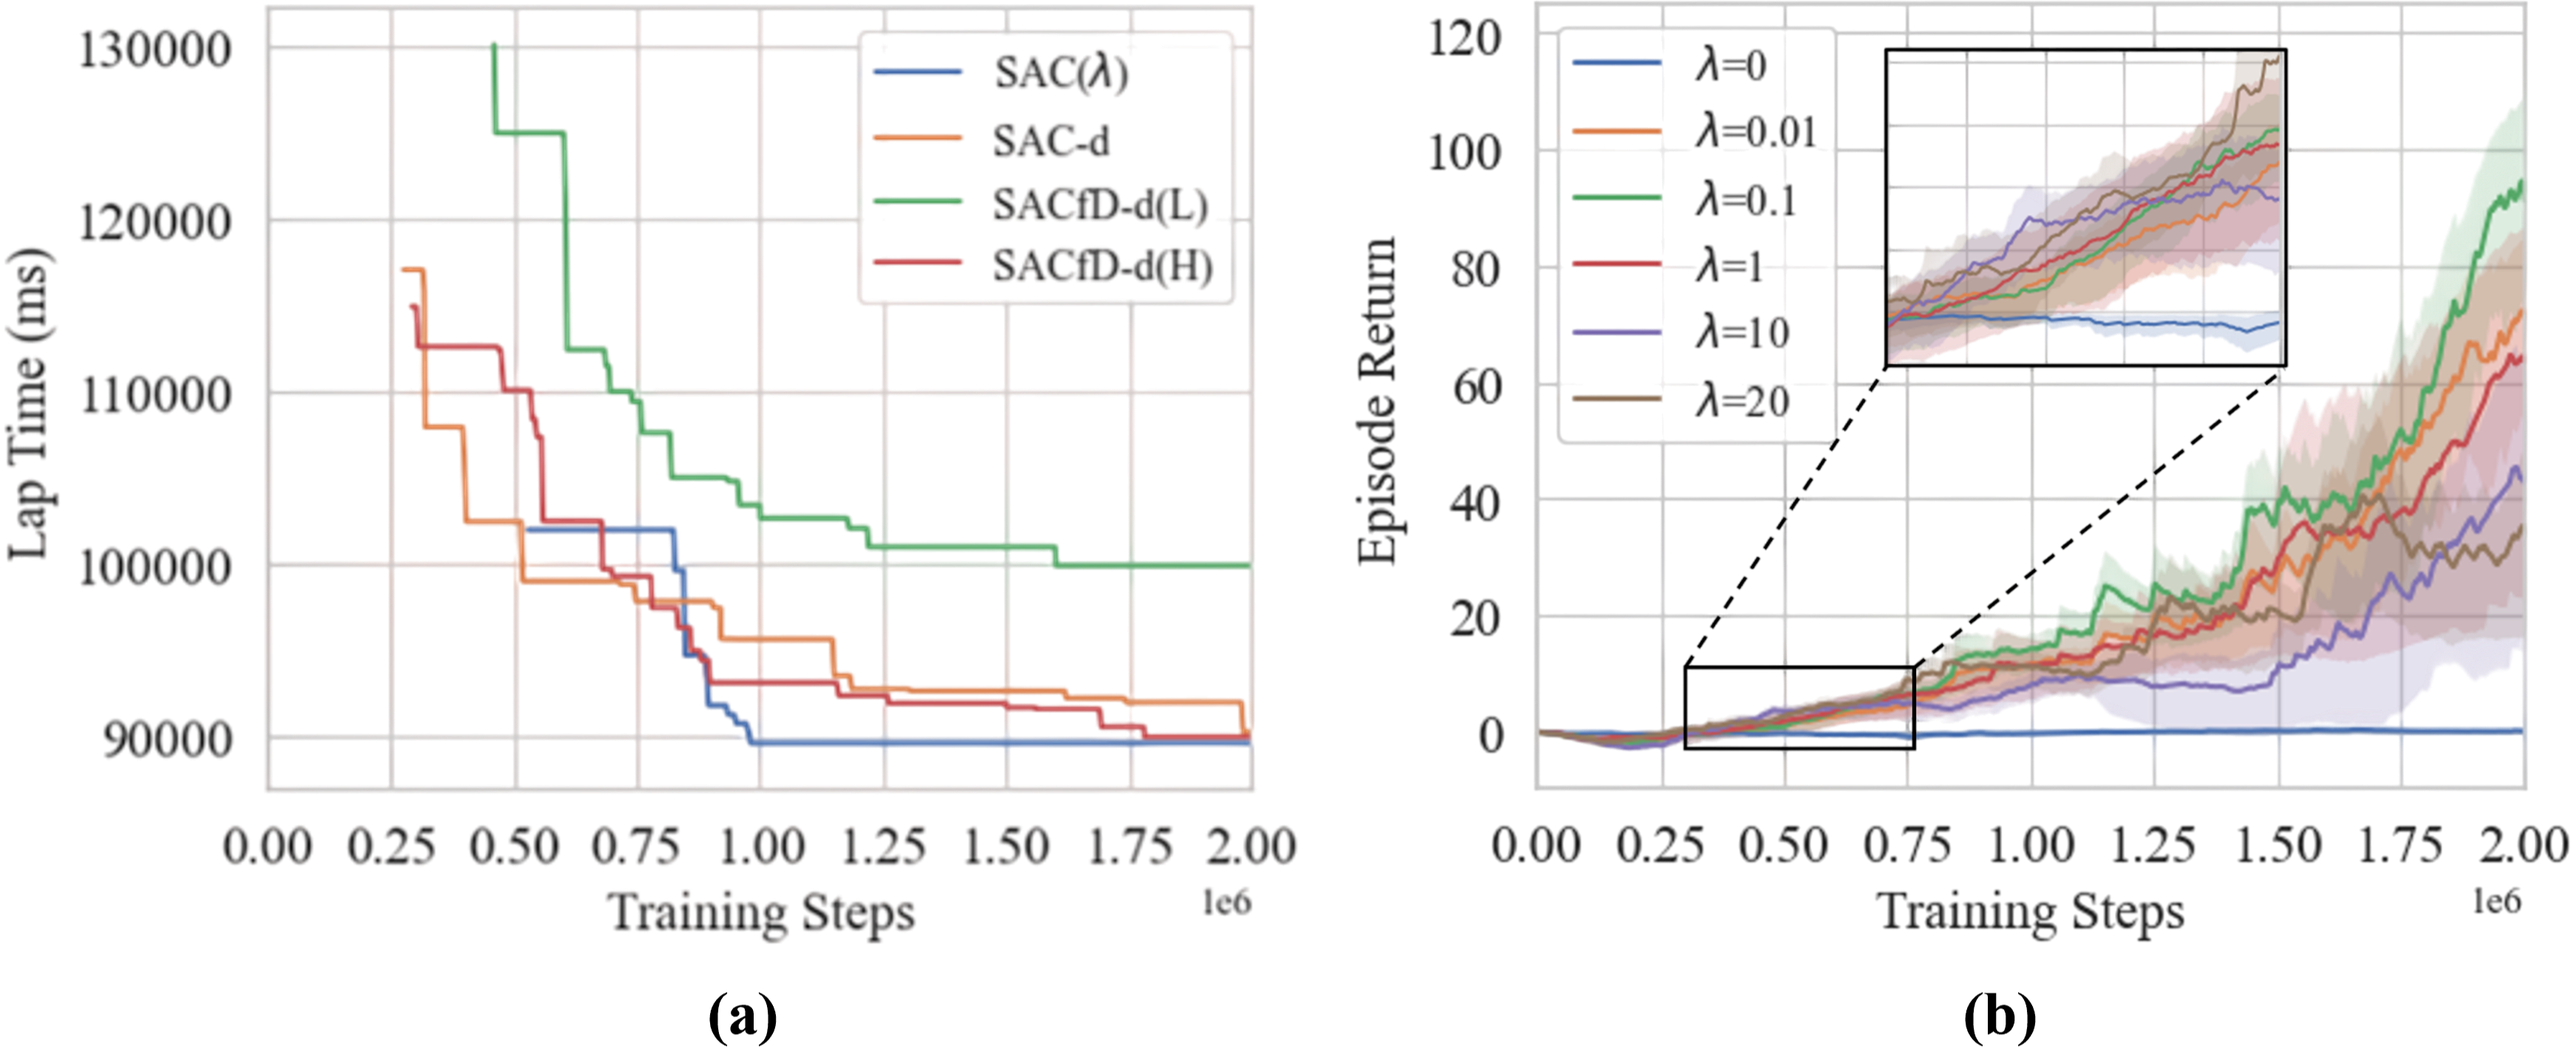
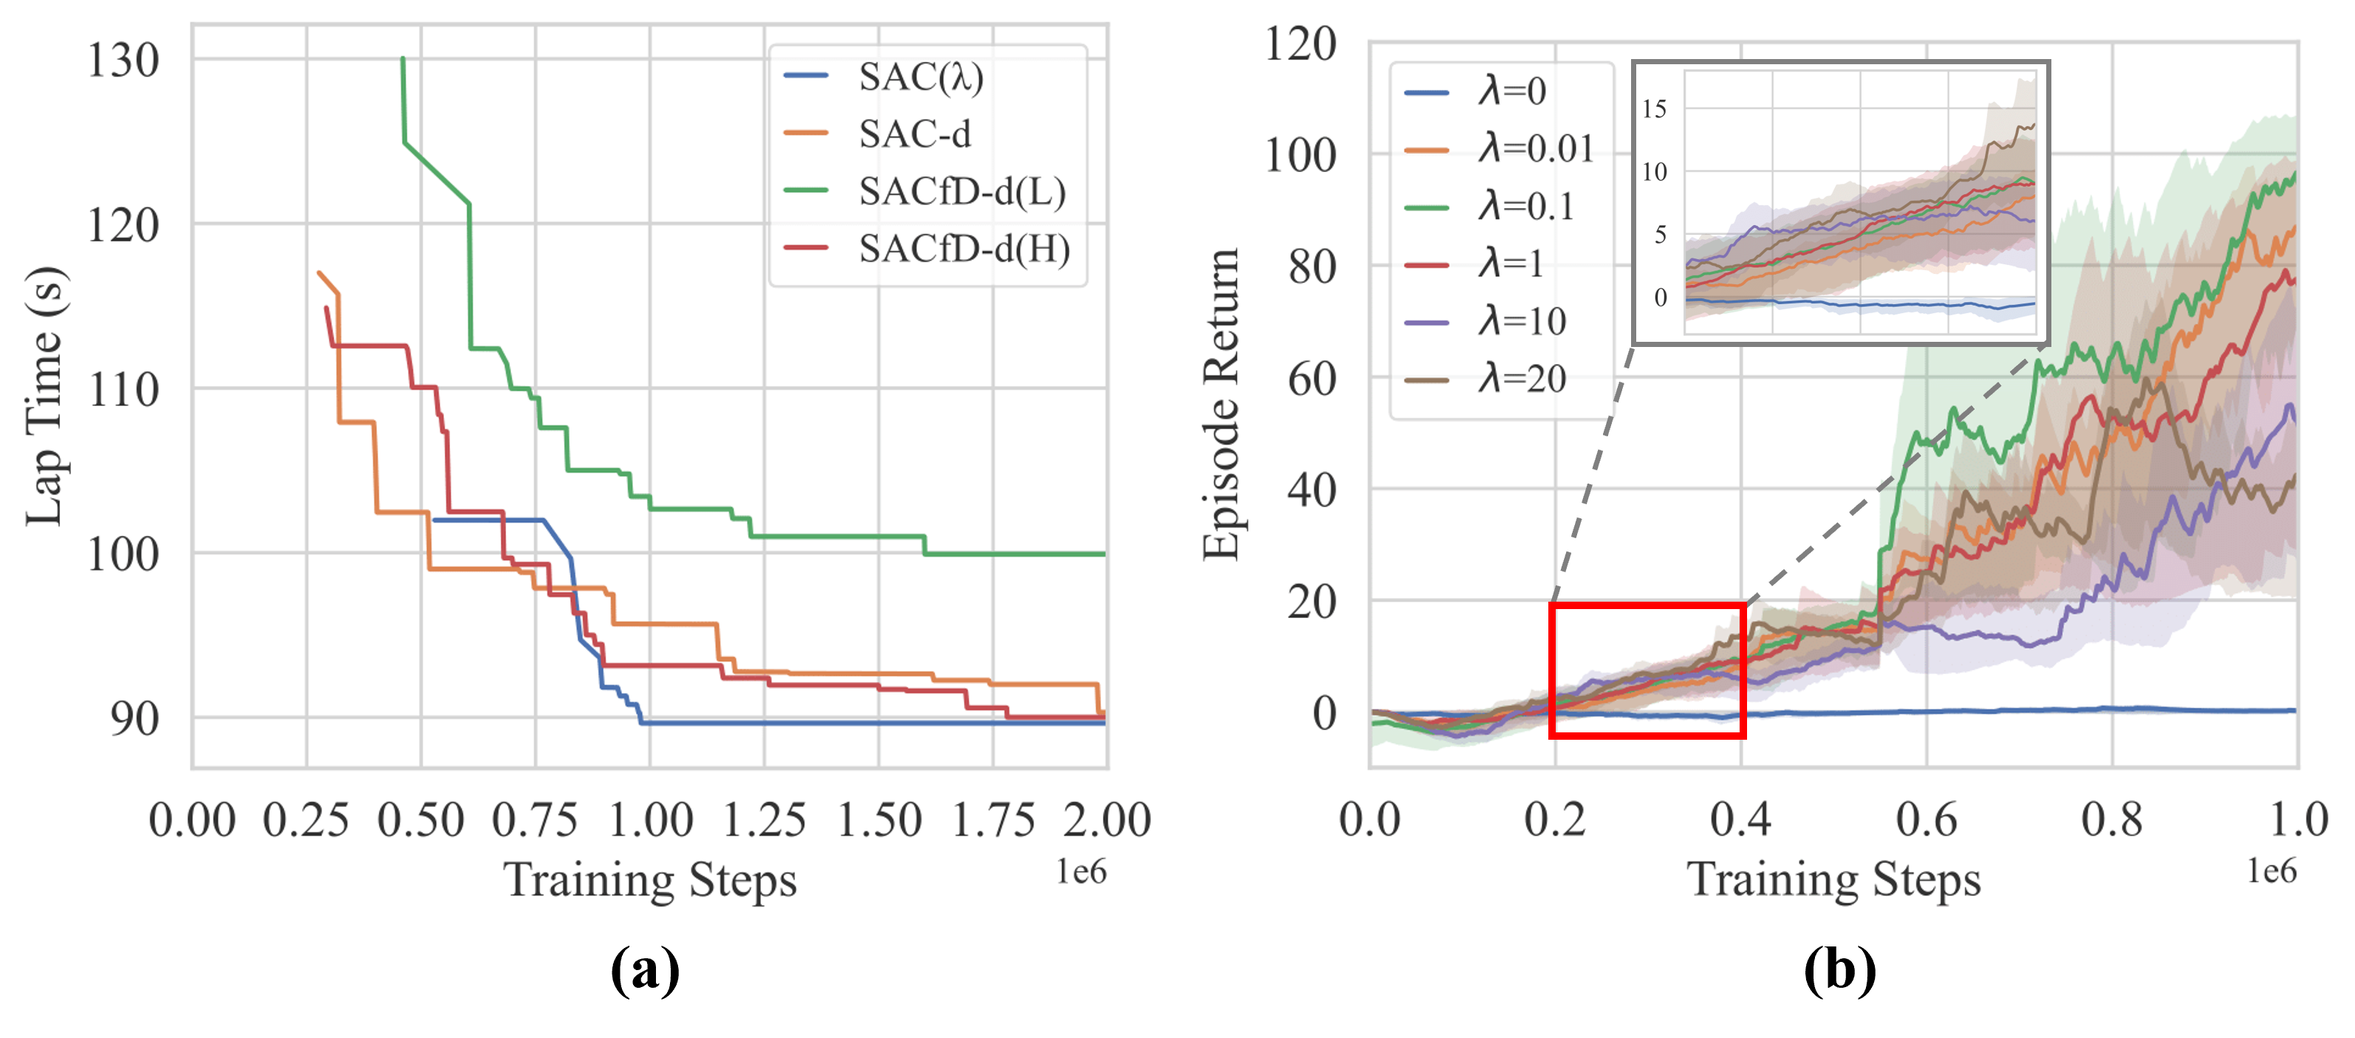
final revision ver.

Changed region(s): [[0.0, 0.0, 1.0, 1.0]]

diff --git a/index.html b/index.html
@@ -218,7 +218,7 @@
             <h2 class="title is-3">Abstract</h2>
             <div class="content has-text-justified">
               <p>
-                Recent advances in Reinforcement Learning (RL) have shown that end-to-end controllers can achieve promising results in autonomous racing. However, minimizing lap time, a sparse objective, poses significant challenges for efficient learning. In this work, we propose SAC(λ), a novel RL from Demonstration (RLfD) algorithm tailored for sparse-reward sim racing tasks. SAC(λ) introduces a discriminator-augmented Q-function to integrate knowledge from demonstrations while preserving the benefits of off-policy learning. Additionally, it employs a Positive Unlabeled (PU) learning framework with adaptive prior adjustment, enabling the use of imperfect demonstrations by progressively refining its understanding of positive behaviors while mitigating overfitting problem. Experimental results demonstrate that SAC(λ) accelerates training process, surpasses the performance of the provided demonstrations, and achieves superior lap times compared to existing RL and RLfD approaches.
+                Recent advances in Reinforcement Learning (RL) have demonstrated promising results in autonomous car racing. However, two fundamental challenges remain: sparse rewards, which hinder efficient learning process, and the quality of demonstrations, which directly affects the effectiveness of RL from Demonstration (RLfD) approaches. To address these issues, we propose SAC(λ), a novel RLfD algorithm tailored for sparse-reward racing tasks with imperfect demonstrations. SAC(λ) introduces two key components: (1) a discriminator-augmented Q-function, which integrates prior knowledge from demonstrations into value estimation while maintaining off-policy learning benefits, and (2) a Positive-Unlabeled (PU) learning framework with adaptive prior adjustment, which enables the agent to progressively refine its understanding of positive behaviors, while mitigating the overfitting problem. Through extensive experiments in the Assetto Corsa simulator, we demonstrate that SAC(λ) significantly accelerates training, surpasses the provided demonstrations, and achieves superior lap times over existing RL and RLfD approaches
               </p>
             </div>
           </div>
@@ -396,7 +396,9 @@
 
 
               <!-- Question 2 -->        
-              <h4 class="title is-5"><br>Final Performance</h4>
+              <h4 class="title is-5" style="margin-top: 20px;">
+                Final Performance<span style="font-weight: normal;"> : lap time (s)</span>
+              </h4>
               <figure class="image" style="margin: 0 auto 1rem auto; width: 100%; text-align: center;">
                 <img src="static/images/evaluation_result.png" alt="Final Performance">
               </figure>              
@@ -486,21 +488,23 @@
               </p>
 
               <!-- Question 4 -->
-              <h4 class="title is-5"><br>Effect of λ</h4>
+              <h4 class="title is-5"><br>Comparison with dense-reward setting, and effect of the λ</h4>
               <figure class="image" style="margin: 0 auto 1rem auto; width: 80%; text-align: center;">
                 <img src="static/images/ablation.png" alt="Ablation" style="display: block; margin: auto;">
               </figure>
             
               
               <p>
-                The above figure shows evaluation results on the S67 track: (a) a comparison of the best
-                lap times against algorithms trained with dense rewards and (b) effects of
-                different λ values on SAC(λ) performance. As λ increases, the algorithm begins
+                The above figure shows evaluation results on the S67 track:
+                (a) a comparison of the best lap times against algorithms trained with dense rewards and
+                (b) ablation study on the effects of different λ values on SAC(λ) performance.
+                Compared to algorithms trained with dense rewards,
+                SAC($\lambda$) still demonstrates superior performance
+                As λ increases, the algorithm begins
                 to leverage offline demonstrations more effectively, reaching
                 peak performance at λ = 0.1. Beyond this point, while
                 the initial learning speed improves, performance starts to
-                decline in the later stages due to the stronger influence of
-                IL.
+                decline in the later stages due to the stronger influence of IL.
               </p> 
             </div>
           </div>
